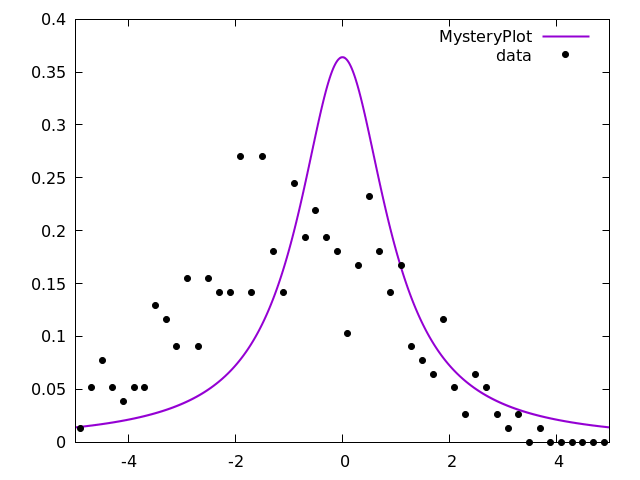
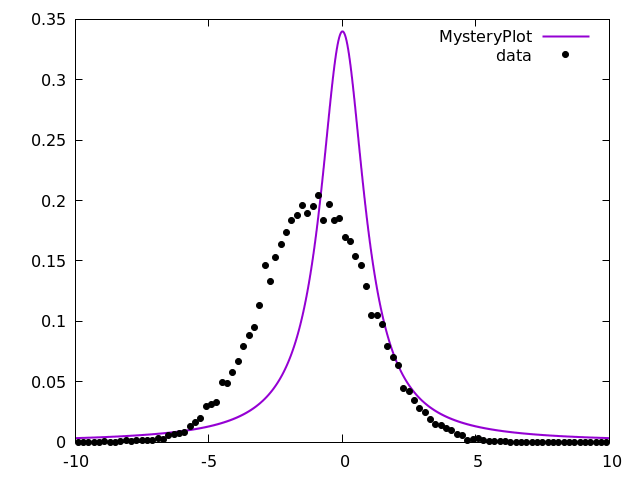
you can now see the plot for 1/1-x2

diff --git a/Exercises2024/Ex3_4/FiniteFunctions.h b/Exercises2024/Ex3_4/FiniteFunctions.h
@@ -46,4 +46,8 @@ public:
   
 public:
   double invxsquared(double x); //The default functional form
+  double normalDistribution(double x); //normal distributions
+  double cauchyLorentzDistribution(double x); //cauchyLorentz Distribution
+  double negativeCrystalBallDistribution(double x); //crystal ball
+
 };
